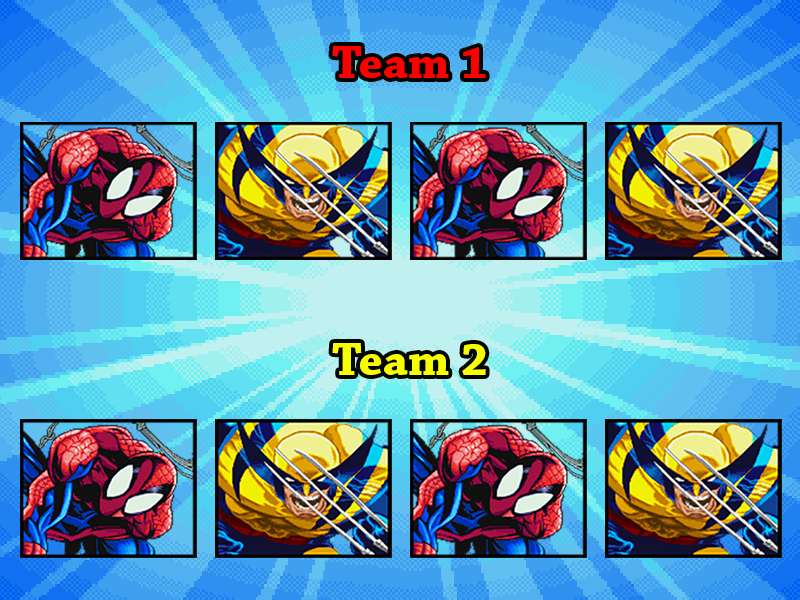
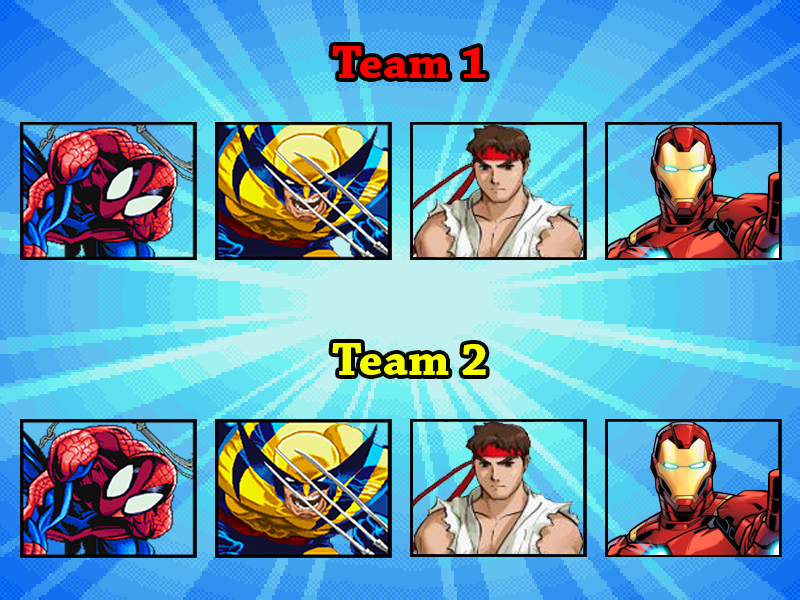
Update menu y cursores

Changed region(s): [[0.5, 0.69, 1.0, 0.93], [0.5, 0.18, 1.0, 0.45]]

diff --git a/src/ClientCursor.cpp b/src/ClientCursor.cpp
@@ -6,15 +6,15 @@ using namespace std;
 unsigned int numberOfCursors = 0;
 
 
-string PATH_CURSOR_CLIENT_1 = "images/menu4/cursorDe4.png";
+/*string PATH_CURSOR_CLIENT_1 = "images/menu4/cursorDe4.png";
 string PATH_CURSOR_CLIENT_2 = "images/menu4/cursorDe4.png";
 string PATH_CURSOR_CLIENT_3 = "images/menu4/cursorDe4.png";
-string PATH_CURSOR_CLIENT_4 = "images/menu4/cursorDe4.png";
+string PATH_CURSOR_CLIENT_4 = "images/menu4/cursorDe4.png";*/
 
-/*string PATH_CURSOR_CLIENT_1 = "images/menu/nuevos_cursores/jugador1.png";
+string PATH_CURSOR_CLIENT_1 = "images/menu/nuevos_cursores/jugador1.png";
 string PATH_CURSOR_CLIENT_2 = "images/menu/nuevos_cursores/jugador2.png";
 string PATH_CURSOR_CLIENT_3 = "images/menu/nuevos_cursores/jugador3.png";
-string PATH_CURSOR_CLIENT_4 = "images/menu/nuevos_cursores/jugador4.png";*/
+string PATH_CURSOR_CLIENT_4 = "images/menu/nuevos_cursores/jugador4.png";
 
 ClientCursor::ClientCursor(int posX, int posY, SDL_Renderer *renderer, bool isVisible) {
 	this->posX = posX;

diff --git a/src/MCGame.cpp b/src/MCGame.cpp
@@ -715,19 +715,19 @@ void MCGame::setCursors() {
     bool visible;
     for (int i = 0; i < 4; i++) {
         if (i == 0) {
-            posX = 20;
+            posX = 18;
             posY = 108;
         }
         if (i == 2) {
-            posX = 20;
-            posY = 408;
+            posX = 18;
+            posY = 406;
         }
         if (i == 3) {
-            posX = 605;
-            posY = 408;
+            posX = 603;
+            posY = 406;
         }
         if (i == 1) {
-            posX = 605;
+            posX = 603;
             posY = 108;
         }
         visible = !(numberOfPlayers == 2 && (i == 1 || i == 3));

diff --git a/src/ServerCursor.h b/src/ServerCursor.h
@@ -7,12 +7,12 @@
 
 
 #define TEAM_ONE_POSITION 108
-#define TEAM_TWO_POSITION 408
+#define TEAM_TWO_POSITION 406
 
-#define SPIDERMAN_POSITION 20
-#define WOLVERINE_POSITION 215
-#define IRONMAN_POSITION 410
-#define RYU_POSITION 605
+#define SPIDERMAN_POSITION 18
+#define WOLVERINE_POSITION 213
+#define IRONMAN_POSITION 408
+#define RYU_POSITION 603
 
 
 class ServerCursor{
